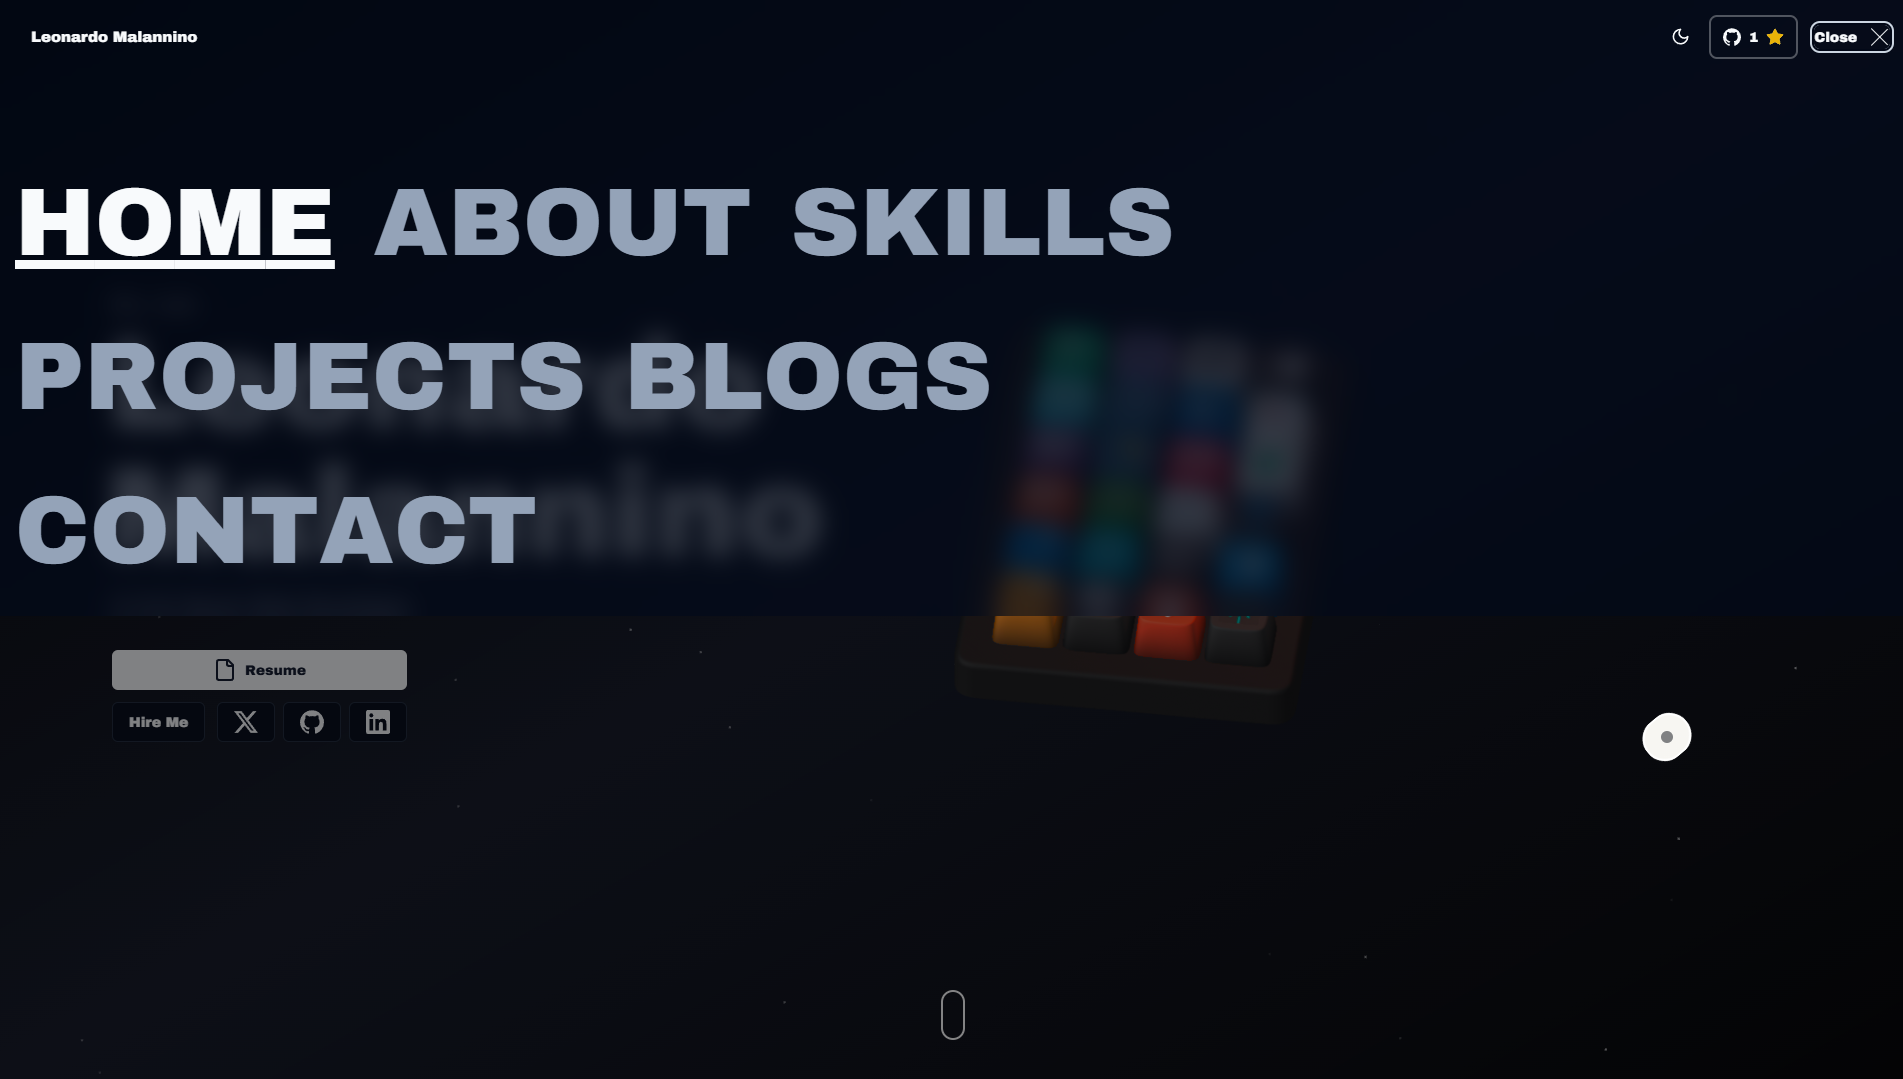
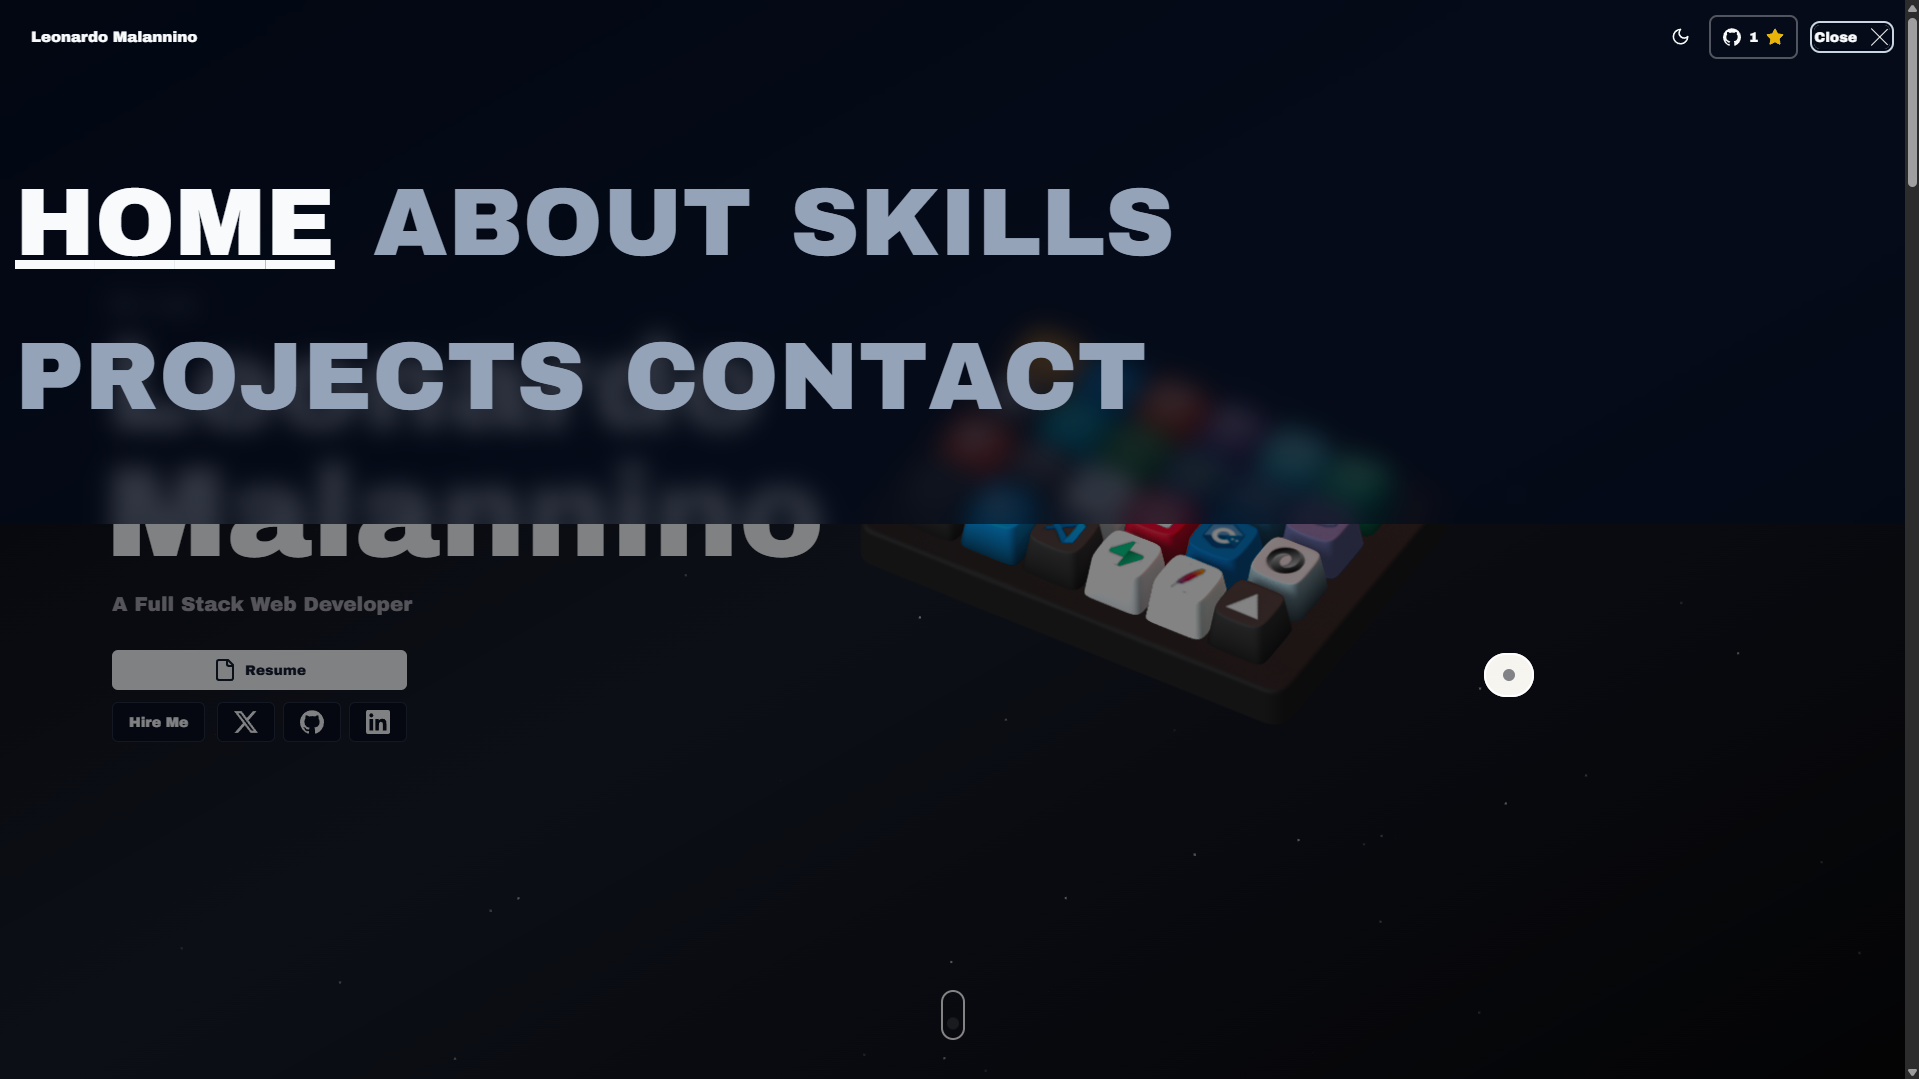
changed navbar

diff --git a/src/components/Particles.tsx b/src/components/Particles.tsx
@@ -20,9 +20,6 @@ export default function Particles({
   ease = 50,
   refresh = false,
 }: ParticlesProps) {
-  const pathname = usePathname();
-  const isBlogPost = pathname.startsWith("/blogs/") && pathname !== "/blogs";
-
   const canvasRef = useRef<HTMLCanvasElement>(null);
   const canvasContainerRef = useRef<HTMLDivElement>(null);
   const context = useRef<CanvasRenderingContext2D | null>(null);
@@ -33,7 +30,6 @@ export default function Particles({
   const dpr = typeof window !== "undefined" ? window.devicePixelRatio : 1;
 
   useEffect(() => {
-    if (isBlogPost) return
     if (canvasRef.current) {
       context.current = canvasRef.current.getContext("2d");
     }
@@ -44,7 +40,7 @@ export default function Particles({
     return () => {
       window.removeEventListener("resize", initCanvas);
     };
-  }, [isBlogPost]);
+  }, []);
 
   useEffect(() => {
     onMouseMove();
@@ -231,8 +227,6 @@ export default function Particles({
     });
     window.requestAnimationFrame(animate);
   };
-
-  if (isBlogPost) return null;
 
   return (
     <div

diff --git a/src/components/ui/ElasticCursor.tsx b/src/components/ui/ElasticCursor.tsx
@@ -72,9 +72,6 @@ function getRekt(el: HTMLElement) {
 const CURSOR_DIAMETER = 50;
 
 function ElasticCursor() {
-  const pathname = usePathname();
-  const isBlogPost = pathname.startsWith("/blogs/") && pathname !== "/blogs";
-
   const { loadingPercent, isLoading } = usePreloader();
   const isMobile = useMediaQuery("(max-width: 768px)");
 
@@ -191,7 +188,7 @@ function ElasticCursor() {
   }, [loadingPercent]);
 
   useTicker(loop, isLoading || !cursorMoved || isMobile);
-  if (isMobile || isBlogPost) return null;
+  if (isMobile) return null;
 
   // Return UI
   return (

diff --git a/src/components/header/config.ts b/src/components/header/config.ts
@@ -21,21 +21,6 @@ const links: Link[] = [
     href: '/#projects',
     thumbnail: '/assets/nav-link-previews/projects.png'
   },
-  // {
-  //   title: 'Skills',
-  //   href: '/skills',
-  //   thumbnail: '/assets/nav-link-previews/skills.png'
-  // },
-  // {
-  //   title: 'Testimonials',
-  //   href: '/testimonials',
-  //   thumbnail: '/assets/nav-link-previews/testimonials.png'
-  // },
-  {
-    title: 'Blogs',
-    href: '/blogs',
-    thumbnail: '/assets/nav-link-previews/blog.png',
-  },
   {
     title: 'Contact',
     href: '/#contact',

diff --git a/src/lib/mdx.ts b/src/lib/mdx.ts
@@ -33,16 +33,3 @@ function getMDXData(dir: string) {
     };
   });
 }
-
-export function getBlogPosts() {
-  return getMDXData(path.join(process.cwd(), "src/content/blogs"));
-}
-
-export function getBlogPost(slug: string) {
-  const filePath = path.join(process.cwd(), "src/content/blogs", `${slug}.mdx`);
-  const { data, content } = readMDXFile(filePath);
-  return {
-    metadata: data as Metadata,
-    content,
-  };
-}

diff --git a/src/components/header/nav/footer/footer.tsx b/src/components/header/nav/footer/footer.tsx
@@ -47,16 +47,7 @@ export default function Footer() {
           animate="enter"
           exit="exit"
         >
-          Blog
-        </motion.li>
-        <motion.li
-          custom={[0.3, 0]}
-          variants={translate}
-          initial="initial"
-          animate="enter"
-          exit="exit"
-        >
-          Newsletter
+          News
         </motion.li>
       </ul>
     </div>

diff --git a/src/components/ui/Header.tsx b/src/components/ui/Header.tsx
@@ -8,7 +8,6 @@ const LINKS = [
   { name: "Projects", href: "/projects" },
   { name: "Contact", href: "/contact" },
   { name: "About", href: "/about" },
-  { name: "Blog", href: "/blog" },
 ];
 
 const Header = () => {

diff --git a/src/components/footer/config.ts b/src/components/footer/config.ts
@@ -1,10 +1,6 @@
 const footer: { title: string; href: string }[] = [
   {
-    title: "Blog",
-    href: "/blogs",
-  },
-  {
-    title: "Newsletter",
+    title: "News",
     href: "/news",
   },
 ];
